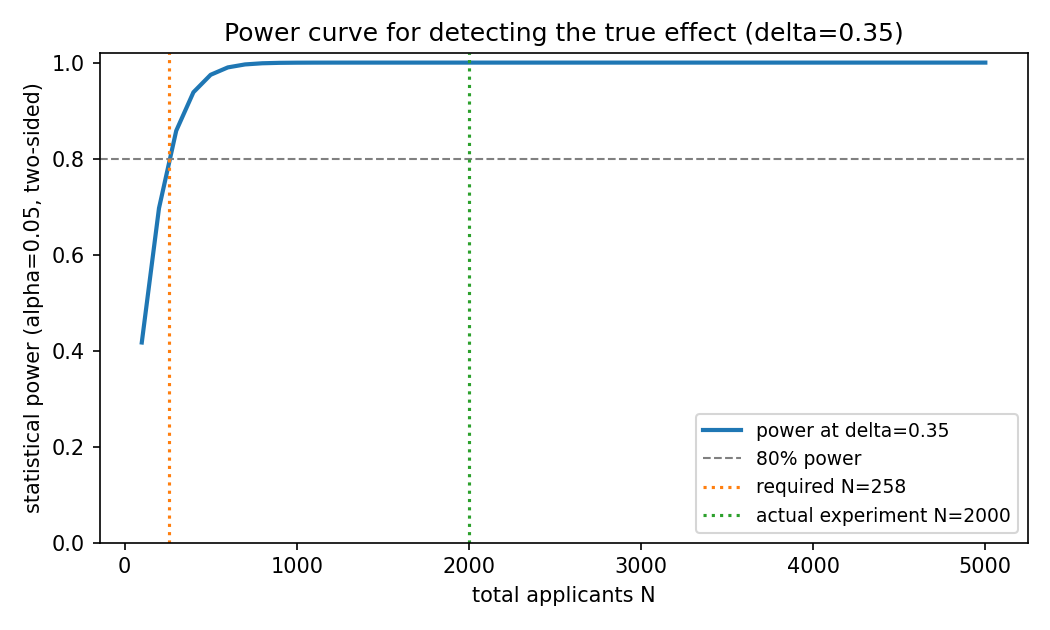
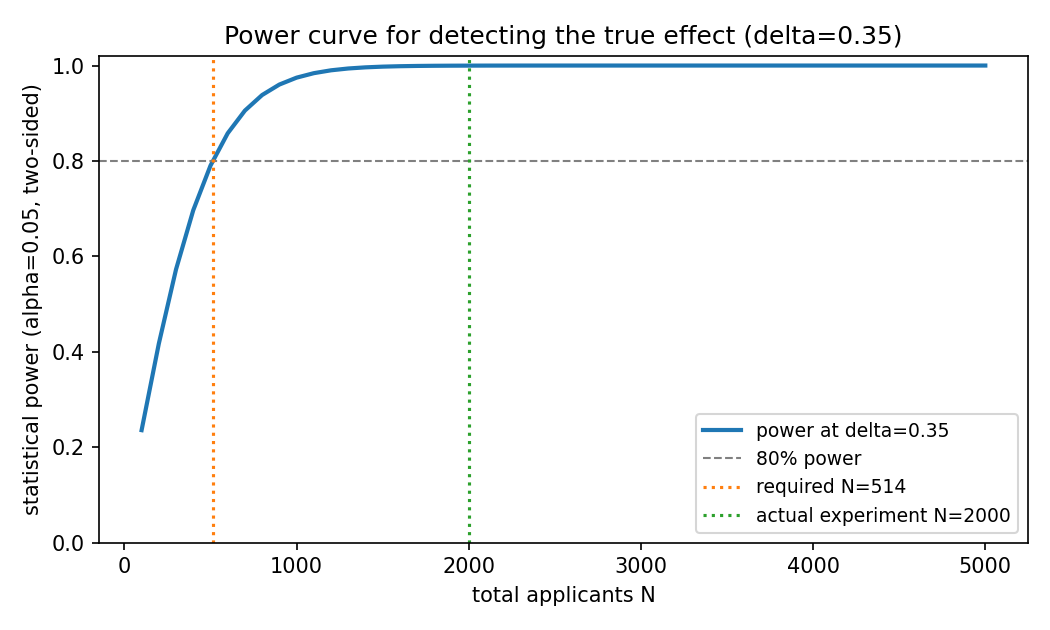
Correct two-sided power and outcome variance assumptions; regenerate report

diff --git a/src/make_report.py b/src/make_report.py
@@ -119,8 +119,14 @@ single draw.)
 
 ## 2. Power analysis
 
+The unadjusted outcome has within-arm variance 2 (covariate variance 1 plus
+noise variance 1). The default calculations below therefore use sigma=sqrt(2).
+An ideal covariate-adjusted design uses residual sigma=1 and requires
+{power.required_n_per_arm(TRUE_TAU, sigma=1)} per arm under this known DGP.
+This is a planning approximation, not a universal CUPED sample-size guarantee.
+
 Minimum detectable effect (MDE) and power at several effect sizes
-(alpha = 0.05 two-sided, sigma = 1):
+(alpha = 0.05 two-sided, sigma = sqrt(2), unadjusted outcome SD):
 
 | total N | per arm | MDE | power d=0.20 | power d=0.30 | power d=0.35 | power d=0.50 |
 |---|---|---|---|---|---|---|
@@ -152,7 +158,9 @@ logit(e) = {fmt(b0, 3)} + {fmt(b1, 3)} * assessment_score.
 True tau = 0.35. The naive estimate is biased upward by **+{fmt(naive_bias)}** —
 it mistakes the treated group's pre-existing assessment advantage for a rubric
 effect. IPW removes most of that bias (|error| = {fmt(ipw_err)}) and the doubly
-robust estimator is closest (|error| = {fmt(dr_err)}).
+robust estimator has |error| = {fmt(dr_err)}. In this particular draw,
+the smaller absolute error identifies the closer estimate; no estimator is
+guaranteed to be closest in every finite sample.
 
 **The unconfoundedness assumption.** These corrections are only valid if,
 conditional on `assessment_score`, rubric assignment was as good as random.
@@ -185,3 +193,4 @@ def main() -> None:
 
 if __name__ == "__main__":
     main()
+

diff --git a/src/power.py b/src/power.py
@@ -7,7 +7,8 @@ for n_per_arm applicants per arm and outcome residual std sigma,
     MDE(alpha, power) = (z_{1-alpha/2} + z_{power}) * SE
     n_per_arm(delta)  = ceil(2 * ((z_{1-alpha/2} + z_{power}) * sigma / delta)^2)
 
-Here sigma = 1 (the residual noise std in src/data_gen.py).
+Default sigma is sqrt(2): within-arm outcome SD before covariate adjustment.
+Use sigma=1 only for ideal adjustment under this known synthetic DGP.
 """
 
 from __future__ import annotations
@@ -18,7 +19,7 @@ from scipy.stats import norm
 
 ALPHA = 0.05
 POWER = 0.80
-SIGMA = 1.0
+SIGMA = math.sqrt(2.0)
 
 
 def mde(n_per_arm: int, sigma: float = SIGMA,
@@ -39,7 +40,8 @@ def power_for(delta: float, n_per_arm: int, sigma: float = SIGMA,
               alpha: float = ALPHA) -> float:
     """Statistical power to detect an effect of size `delta`."""
     se = sigma * math.sqrt(2.0 / n_per_arm)
-    return float(norm.cdf(delta / se - norm.ppf(1 - alpha / 2)))
+    z = norm.ppf(1 - alpha / 2)
+    return float(norm.cdf(delta / se - z) + norm.cdf(-delta / se - z))
 
 
 def power_table(deltas=(0.20, 0.30, 0.35, 0.50), total_ns=(200, 500, 1000, 2000, 4000)):
@@ -75,3 +77,4 @@ def print_power_table() -> None:
 
 if __name__ == "__main__":
     print_power_table()
+

diff --git a/tests/test_power.py b/tests/test_power.py
@@ -1,0 +1,11 @@
+import pytest
+from src.power import power_for, required_n_per_arm
+
+
+def test_two_sided_null_rejection_rate_and_sign_symmetry():
+    assert power_for(0, 100) == pytest.approx(0.05)
+    assert power_for(0.1, 100) == pytest.approx(power_for(-0.1, 100))
+
+
+def test_unadjusted_requires_more_observations_than_ideal_adjusted():
+    assert required_n_per_arm(0.35) > required_n_per_arm(0.35, sigma=1)

diff --git a/README.md b/README.md
@@ -25,7 +25,7 @@ and propensity-score adjustment.
 ## Methodology
 
 1. **`src/data_gen.py`** — generates two datasets with a **known true effect
-   tau = +0.35 SD** baked in (documented in the module docstring):
+   tau = +0.35 residual-noise SD** baked in (documented in the module docstring):
    - *Randomized experiment* (N=2000, 50/50): `perf_90d = 0.35*group +
      1.0*assessment_score + noise`. The pre-experiment covariate
      `assessment_score` is strongly predictive of the outcome (R² ≈ 0.52).
@@ -34,7 +34,7 @@ and propensity-score adjustment.
      (`P(W=1|X) = sigmoid(X + 0.2)`) — documented confounding, so the naive
      comparison is biased upward.
 2. **`src/power.py`** — MDE / sample-size calculator for the two-sample design
-   (sigma = 1), plus a printable power table.
+   (default sigma = sqrt(2) for unadjusted outcomes), plus a printable power table.
 3. **`src/analysis.py`** — randomized-experiment analysis: Welch
    difference-in-means with 95% CI, CUPED using the pre-experiment covariate
    (pooled-theta, reports variance-reduction %), and ANCOVA (OLS-adjusted)
@@ -63,8 +63,9 @@ True effect tau = +0.35 everywhere. Randomized experiment (980 control /
 - Both the raw and CUPED 95% CIs cover the true 0.35. Note the honest detail:
   the raw diff-in-means *underestimated* this draw (0.305) while CUPED landed
   slightly above (0.389) — single draws wobble; the procedure is what's valid.
-- Power: only **129 applicants per arm (258 total)** are needed for 80% power
-  at delta = 0.35; at N = 2000 the MDE is 0.125 and power is ~1.0.
+- Power: the unadjusted design uses outcome SD sqrt(2), while an ideal
+  covariate-adjusted design uses residual SD 1. See the regenerated report for
+  distinct sample-size calculations; 129/arm applies only to the latter.
 
 Observational data (mean assessment: 0.381 treated vs −0.457 control):
 
@@ -77,7 +78,7 @@ Observational data (mean assessment: 0.381 treated vs −0.457 control):
 
 The naive estimate is biased upward by +0.79 — it mistakes the treated group's
 pre-existing assessment advantage for a rubric effect. IPW removes most of the
-bias (|error| = 0.022); doubly robust is closest (|error| = 0.044). Full tables
+bias (|error| = 0.022); doubly robust has |error| = 0.044; IPW is closer in this draw. Full tables
 and the power curve: [`report/report.md`](report/report.md).
 
 ## Assumptions & limitations
@@ -108,18 +109,15 @@ bash run.sh          # venv + pytest + regenerate report/report.md
 Manual steps:
 
 ```bash
-python3 -m venv --system-site-packages .venv   # pinned numpy/pandas/scipy/matplotlib come from OS packages
-.venv/bin/pip install pytest
-PYTHONPATH=. .venv/bin/python -m pytest tests/ -q
-PYTHONPATH=. .venv/bin/python -m src.make_report
+python3 -m venv .venv
+source .venv/bin/activate
+pip install -r requirements.txt
+python -m pytest tests -q
+python -m src.make_report
 ```
 
-`requirements.txt` pins numpy==1.26.4, pandas==2.1.4, scipy==1.11.4,
-matplotlib==3.6.3, pytest==8.3.4 (the exact versions tested here).
-
-*Dockerfile: intentionally skipped.* The stack is CPU-only; the four pinned
-libraries resolve to the exact pinned versions from OS packages
-(`--system-site-packages`, see `run.sh`), so a container image adds no value.
+Dependencies are pinned to the versions used for this revision; the setup no
+longer assumes particular packages happen to be preinstalled by the OS.
 
 ## Layout
 
@@ -135,3 +133,4 @@ tests/            pytest: determinism, CUPED variance reduction, CI coverage,
 report/           report.md + figures/ (committed; regenerable via make_report.py)
 run.sh            end-to-end: venv, install, test, report
 ```
+

diff --git a/report/report.md b/report/report.md
@@ -33,22 +33,28 @@ single draw.)
 
 ## 2. Power analysis
 
+The unadjusted outcome has within-arm variance 2 (covariate variance 1 plus
+noise variance 1). The default calculations below therefore use sigma=sqrt(2).
+An ideal covariate-adjusted design uses residual sigma=1 and requires
+129 per arm under this known DGP.
+This is a planning approximation, not a universal CUPED sample-size guarantee.
+
 Minimum detectable effect (MDE) and power at several effect sizes
-(alpha = 0.05 two-sided, sigma = 1):
+(alpha = 0.05 two-sided, sigma = sqrt(2), unadjusted outcome SD):
 
 | total N | per arm | MDE | power d=0.20 | power d=0.30 | power d=0.35 | power d=0.50 |
 |---|---|---|---|---|---|---|
-| 200 | 100 | 0.396 | 0.293 | 0.564 | 0.697 | 0.942 |
-| 500 | 250 | 0.251 | 0.609 | 0.918 | 0.975 | 1.000 |
-| 1000 | 500 | 0.177 | 0.885 | 0.997 | 1.000 | 1.000 |
-| 2000 | 1000 | 0.125 | 0.994 | 1.000 | 1.000 | 1.000 |
-| 4000 | 2000 | 0.089 | 1.000 | 1.000 | 1.000 | 1.000 |
+| 200 | 100 | 0.560 | 0.170 | 0.323 | 0.417 | 0.705 |
+| 500 | 250 | 0.354 | 0.353 | 0.660 | 0.790 | 0.977 |
+| 1000 | 500 | 0.251 | 0.609 | 0.918 | 0.975 | 1.000 |
+| 2000 | 1000 | 0.177 | 0.885 | 0.997 | 1.000 | 1.000 |
+| 4000 | 2000 | 0.125 | 0.994 | 1.000 | 1.000 | 1.000 |
 
-- To detect the true effect delta = 0.35 at 80% power: **129 per arm
-  (258 total)**.
+- To detect the true effect delta = 0.35 at 80% power: **257 per arm
+  (514 total)**.
 - With the actual N = 2000 (980 control / 1020
-  treatment realized): MDE = 0.125,
-  power at delta = 0.35 is 1.0000 — the experiment is heavily
+  treatment realized): MDE = 0.177,
+  power at delta = 0.35 is 0.9998 — the experiment is heavily
   over-powered for the true effect, which is why all CIs above are tight.
 
 ![Power curve](figures/power_curve.png)
@@ -70,7 +76,9 @@ logit(e) = 0.218 + 0.988 * assessment_score.
 True tau = 0.35. The naive estimate is biased upward by **+0.7916** —
 it mistakes the treated group's pre-existing assessment advantage for a rubric
 effect. IPW removes most of that bias (|error| = 0.0215) and the doubly
-robust estimator is closest (|error| = 0.0436).
+robust estimator has |error| = 0.0436. In this particular draw,
+the smaller absolute error identifies the closer estimate; no estimator is
+guaranteed to be closest in every finite sample.
 
 **The unconfoundedness assumption.** These corrections are only valid if,
 conditional on `assessment_score`, rubric assignment was as good as random.
